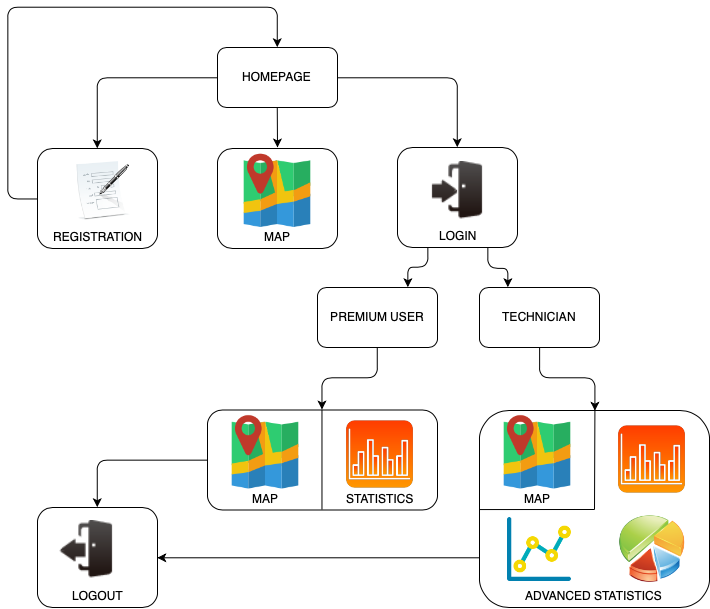
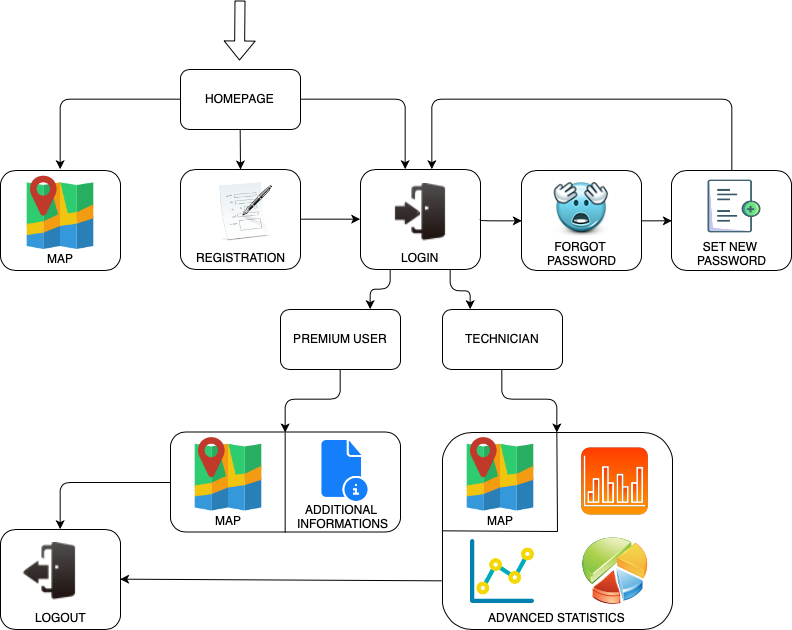
Updates from Overleaf

diff --git a/ReleasedDocs/LaTeX file/DD.tex b/ReleasedDocs/LaTeX file/DD.tex
@@ -53,10 +53,12 @@ The technicians are requested to complete the registration and log-in to have ac
                                \item Showing the position of all the bike stalls
                                \item ID Number of bikes stalls per each selected station
                                \item Number of the stalls for each selected station
+                               \item Manually typing of the address or select the position on the map  
                                \end{itemize}
         \\
             \hline
             PREMIUM FUNCTION &  \begin{itemize}
+                                \item all the previous basic function    are included
                                 \item Display the position of the user on the map
                                 \item Help the users to visualise the nearest station with respect to their position
                                 \item Showing the list of all the available  stations nearby
@@ -65,6 +67,7 @@ The technicians are requested to complete the registration and log-in to have ac
              \\
             \hline
             TECHNICIAN AREA &  \begin{itemize}
+                               \item All the previous premium function    are included
                                \item Plotting of the stations median bikes availability per day of the week
                                \item Plotting of the stations median bikes availability per day of the month
                                \item Plotting of the percentage of bikes availability per day
@@ -123,7 +126,7 @@ This document is organized in different sections like described in Table 3.
 \section{Design Overview}
 This section briefly introduce the system context and design, and discuss the background to the project
 \subsection{Approach}
-The “bike4share” Web Application is created and extended in multiple phases over the course of the project (Table 4).
+The “bike4share” web application is created and extended in multiple phases over the course of the project (Table 4).
 \begin{table} [H]
     \begin{center}
         \begin{tabular}{|l|p{0.6\textwidth}|}
@@ -148,7 +151,7 @@ The “bike4share” Web Application is created and extended in multiple phases 
 
 \subsection{Background Information}
 
-The  customer has invested in sustainable mobility by installing a number of bike stalling stations around the City. The implemented bike sharing system must be monitored with the “bike4share” WebApp for assessing the bikes flow both in space and time and, eventually, for designing future system improvement actions. 
+The  customer has invested in sustainable mobility by installing a number of bike stalling stations around the City. The implemented bike sharing system must be monitored with the “bike4share” web application for assessing the bikes flow both in space and time and, eventually, for designing future system improvement actions. 
 Also, the customer has the need to inform in real time bike sharing users about the status of each stations.
 
 \subsection{Constraints}
@@ -188,10 +191,10 @@ There are different kind of users. Every user can interact with different inform
             REGISTERED USER &   A user that is registered yet and that wants to access the “b4s” web application services in order to use the premium functions available  on  the application. It  could  be  a  person  that  uses this service frequently. \\ 
             \hline
             NOT REGISTERED USER &  
-            A user  that  isn’t registered  yet  and  that  wants to ccess  the  “b4s”  web application  services  in  order  to  use the  basic functions available on the application, it could be a person that doesn’t use this service frequently or a new user that wants to start an approach to this service and try it for the first time  \\
+            A user  that  isn’t registered  yet  and  that  wants to access  the  “b4s”  web application  services  in  order  to  use the  basic functions available on the application, it could be a person that doesn’t use this service frequently or a new user that wants to start an approach to this service and try it for the first time  \\
             \hline
             TECHNICIAN &  
-            A person who is authenticated thanks to specific credential given by the master of the service and who has been granted supervising permissions.   He/she  is  allowed  to  view,  analyze,  access  statistics  and aggregated information about the “b4s” web application services.
+            A person who is authenticated thanks to specific credential given by the master of the service and who has been granted supervising permissions.   He/she  is  allowed  to  view,  analyse,  access  statistics  and aggregated information about the “b4s” web application services.
             \\
             \hline
         \end{tabular}
@@ -220,7 +223,7 @@ It is possible to identify the following problems with respect to the type of ev
     \hline
       LOG-IN PHASE &        \begin{itemize}
                             \item Forgot password:the user can follow the recovery password procedure
-                            \item Localization doesn’t work: so the system provides to the logged user the possibility of  manually inserting the needed address and find the position or adding a point in his position
+                            \item Localisation doesn’t work: so the system provides to the logged user the possibility of  manually inserting the needed address and find the position or adding a point in his position
                             \item Maps providers crash
                             \item Server doesn’t work
                             \end{itemize}
@@ -365,15 +368,15 @@ The structure of the software is based on the following python script and reusab
      \end{itemize}
      \\
     \hline
-    downloadStation.py & It allows to download the data about the station from the DB and to save it to a GeoJSON file and trasform it into a javascript variable. 
+    downloadStation.py & It allows to download the data about the station from the DB and to save it to a GeoJSON file and transform it into a javascript variable. 
       \\
     \hline
 \caption{Software structure overview } \\
 \end{longtable}
       
 \subsection{Communications Architecture}
-The Communication diagram, fig \ref{fig:createSchema}, is a diagram that shows the interactions between elements at run-time. They  are used to visualize inter-object relationships.
-In the schema in fig. \ref{fig:createSchema} is possible to notice how the createSchema python code is linked with the DB and how it can interact in the creation, modification and update of the dataframes.
+The Communication diagram, fig \ref{fig:createSchema}, is a diagram that shows the interactions between elements at run-time. They  are used to visualise inter-object relationships.
+In the schema in fig. \ref{fig:createSchema} is possible to notice how the createSchema python code is linked with the DB and how it can interact in the creation, modification and update of the dataframe.
 
 \begin{figure}[H]
     \centering
@@ -436,6 +439,8 @@ The table 11 will show the main attributes that describe the DB tables.
   & regarding & BIKE\_SH & text & - \\
   & stations & INDIRIZZO & text & - \\
   & & STALLI & int & - \\
+  \hline
+  \hline
   & & LOCALIZ & text & - \\
   & & LATITUDINE & double & - \\
   & & LONGITUDINE & double & - \\
@@ -473,7 +478,7 @@ This module is used to download the data of the stations directly from the serve
 It implies the creation of a geojson file with the information about the position and the number of stalls for every station.
 
 \subsubsection{Module 3: realtime\_data}
-This module is used to download the data of the availabilty of bikes for each station directly from the server, it is automated and it’s imported by the main module.
+This module is used to download the data of the availability of bikes for each station directly from the server, it is automated and it’s imported by the main module.
 
 \paragraph{realtime\_data: Processing}
 It implies the creation of a geojson file with the information about the number of free stalls and bike available for every station.
@@ -487,10 +492,12 @@ The main structures used to store data are data frames and lists.
 
 \subsubsection{Module 5: statistics}
 The aim of  this module is to create different statistics on the base of the data retrieved by the DB, from tables ‘bike\_stalls’ and ‘stations’.
+
 \paragraph{statistics: Processing}
-The first operation that is made in this module is the connection to the DB in order to store the tables, above mentioned, of the data respectively in two different data frames. In this way is possible to extract the information needed to compute statistics, e.g. day and month. Functionalities to retrieve real time data have been implemented too. The data can be stored in data frames using the function df\_bike. groupby on the base of the different criteria as the median and the total availability of bikes. Using Bokeh functions it is possible to plot these statistics and to design the relative widgets. 
+The first operation that is made in this module is the connection to the DB in order to store the tables, above mentioned, of the data respectively in two different data frames. In this way is possible to extract the information needed to compute statistics, e.g. day and month. Functionalities to retrieve real time data have been implemented too. The data can be stored in the data frame and group by on the base of the different criteria as the median and the total availability of bikes. Using Bokeh functions it is possible to plot these statistics and to design the relative widgets. 
 \paragraph{statistics: Local data structures}
 The main structures used to store data are data frames and lists.
+
 \section{Human-Machine Interface}
 The user interface is easy and intuitive, fig \ref{fig:usageb4s}. When the webpage is opened, a map appears on the screen. The map shows the bike stations (as markers) in terms of position in space, with the possibility to interact with it; clicking on them, the user can immediately know what is the address and the capacity (total number of stalls)
 \\
@@ -587,7 +594,7 @@ The "b4s" web application provides several outputs, based on the type of user wh
             \item Map visualisation
             \item Position of the stations
             \item Manual inserting of the user's position
-            \item Automatic localization
+            \item Automatic localisation
             \item List of the nearest stalls
             \item Total number of the stalls
             \item Number of free bikes available
@@ -604,7 +611,7 @@ The "b4s" web application provides several outputs, based on the type of user wh
 In this section is possible to find a diagram, fig \ref{fig:navigation}, of the navigation hierarchy where is shown how a user can move through the interfaces.\\
 \begin{figure}[H]
     \centering
-    \includegraphics[width=0.68\linewidth]{image/USERFLOW2.png}
+    \includegraphics[width=0.68\linewidth]{image/USERFLOW.png}
     \caption{Diagram of the navigation hierarchy}
     \label{fig:navigation}
 \end{figure}

diff --git a/ReleasedDocs/LaTeX file/RASD.tex b/ReleasedDocs/LaTeX file/RASD.tex
@@ -30,7 +30,7 @@ RASD: requirement analysis and specification document
 \subsection{Reference documents}
 the following documents are taken as reference for the developing of the b4s web application:
 \begin{itemize}
-    \item SE4G Lab assignment:GreatBikes given by Prof.ssa Elisabetta Di Nitto, PhD Eng. Daniele Oxoli
+    \item SE4G Lab assignment: GreatBikes given by Prof.ssa Elisabetta Di Nitto, PhD Eng. Daniele Oxoli
     \item Flask Web Developement -developing web application with Python- written by Miguel Grinberg
     \item Hands-On Data Visualization with Bokeh written by Kevin Jolly 
 \end{itemize}
@@ -47,19 +47,19 @@ Data are retrieved as input from the Databases.
 Software is retrieved as output of Map and statistics visualisation.\\
 User level makes possible to view the map and to obtain some information (from the user point of view) and the technician can perform API request to analyse data and statistics.\\ Both the actors can perform their purposes accessing the page through the browser.\\
 
-\begin{figure}[h]
+\begin{figure}[H]
     \centering
     \includegraphics[width=0.75\linewidth]{image/BIKE4SHARE_SCHEMA_FINAL.png}
     \caption{Overall view of "bike4share" system}
     \label{fig:schema}
 \end{figure}
 The Venn diagram in figure \ref{fig:venn} shows a representation of the phenomena, world, shared and machine,  concerning the software.\\
-\begin{figure}[h]
+\begin{figure}[H]
     \centering
     \includegraphics[width=0.75\linewidth]{image/venn.png}
     \caption{Venn diagram of the phenomena}
     \label{fig:venn}
-\end{figure}\\\\
+\end{figure}
 
 \subsection{Product functions}
 "b4s” provides different functions to different type of users.\\
@@ -134,7 +134,7 @@ At the beginning every users will see the same homepage as shown in Figure \ref{
 3.1.1.1 USE CASE:Log-In
 
 In this interface the user is registered yet so it's sufficient to follow the log in procedure and compile the requested fields Figure \ref{fig:log-in 2}
-\begin{figure}[h]
+\begin{figure}[H]
     \centering
     \includegraphics[width=0.35\linewidth]{image/log_in.PNG}
     \caption{"bike4share" common users interface}
@@ -231,26 +231,29 @@ As new user Luca has to sign in by compiling the form with his correct format e-
 If the user name that Luca has inserted is chosen yet a message is shown and he has to change the previous chosen name, otherwise the registration is successfully completed.
 Now Luca can access to the the “bike4share” WebApp PREMIUM FUNCTION and check the stalls’ list near the Cadorna railway station.
 
-\subsubsection{\textbf{USE CASE}: Forgot Password}
+\subsubsection{\textbf{USE CASE}: Password Recovery}
 \begin{enumerate}
 \item Participating actors: 
 \begin{itemize}
     \item user
     \item WebApp
+    \item DB
 \end{itemize}
 \item Entry Condition: 
 \begin{itemize}
-    \item user forgot the password and wants to restore it
+    \item user forgot the password and wants to set a new one
 \end{itemize}
 \item Flow of events: 
 \begin{itemize}
     \item users have to put the username 
     \item users have to put the e-mail associated to the account 
-    \item the system sends back the old password using the user e-mail
+    \item users have to start the Password Recovery procedure
+    \item the system sends an e-mail to the user with the random code.
+    \item the random code, username and new password are inserted in the specific form in order to perform the Set New Password procedure
 \end{itemize}
 \item Exit Condition: 
 \begin{itemize}
-    \item user receive by mail a random code that can be used to set the new password
+    \item the new password is set
 \end{itemize}
 \item Exceptions
 \begin{itemize}
@@ -426,7 +429,5 @@ Security is not the main issue of the application, but it’s essential to guara
 Since the architecture can support an easy evolution of the software and the adding of new features and options (taking in consideration the users’ feedback), the development requires the use of an object oriented language to make use of classes and therefore to create a more readable code.
 \subsubsection{Portability}
 The system is developed to reach any browser. So it must be available on several OS and on any browser (e.g. Google Chrome, Mozilla Firefox).
-
-% \section{Appendices}
 
 \end{document}
